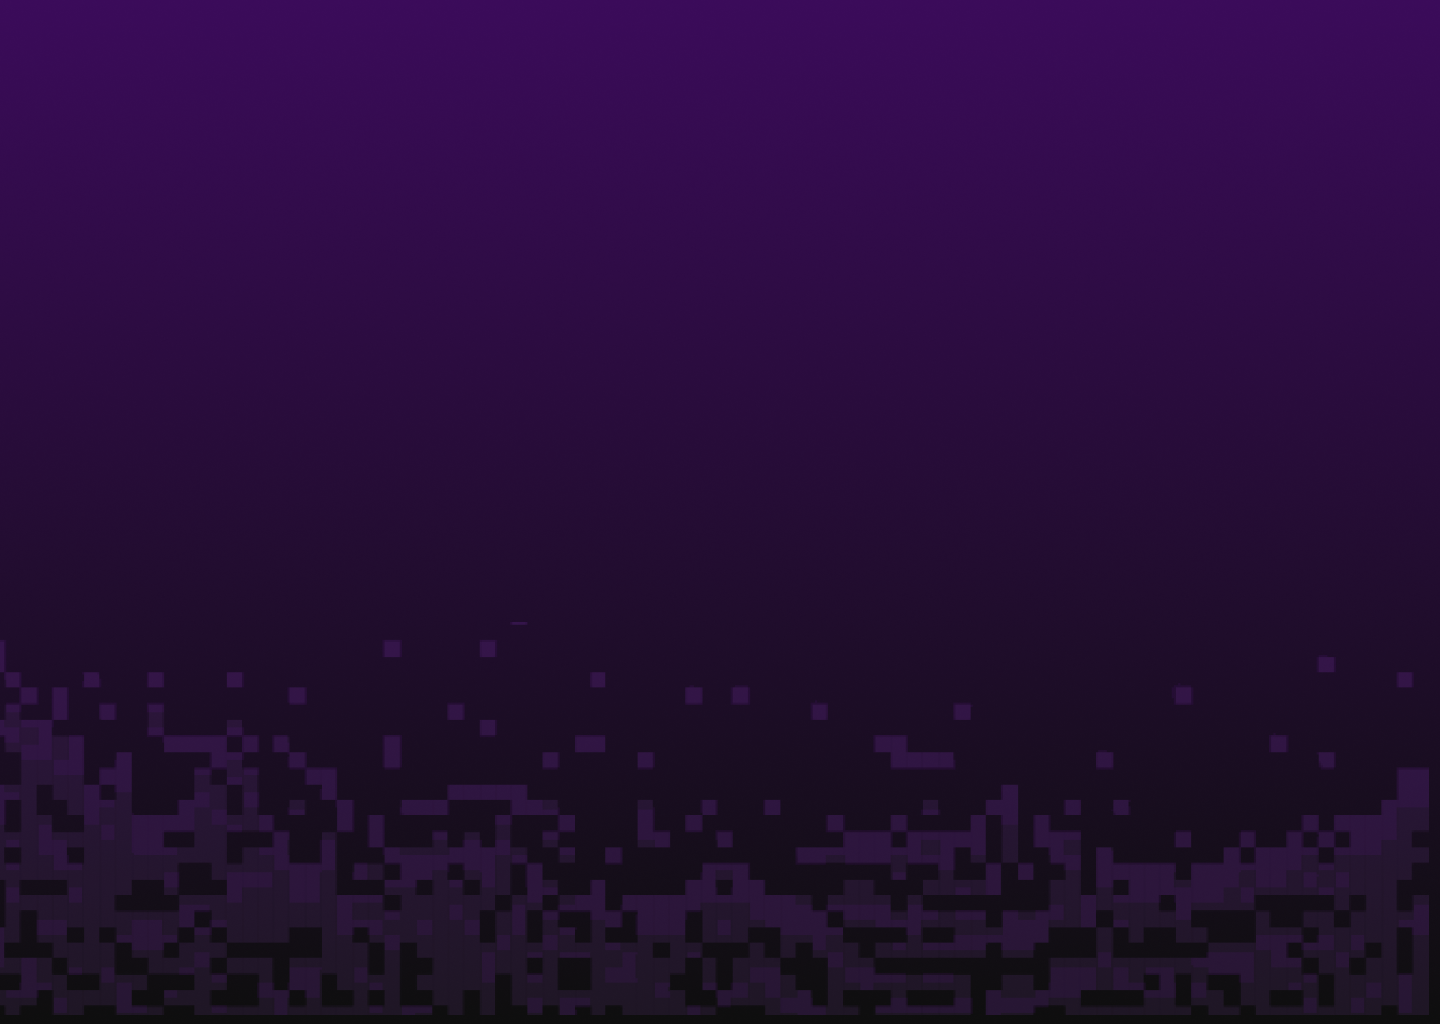
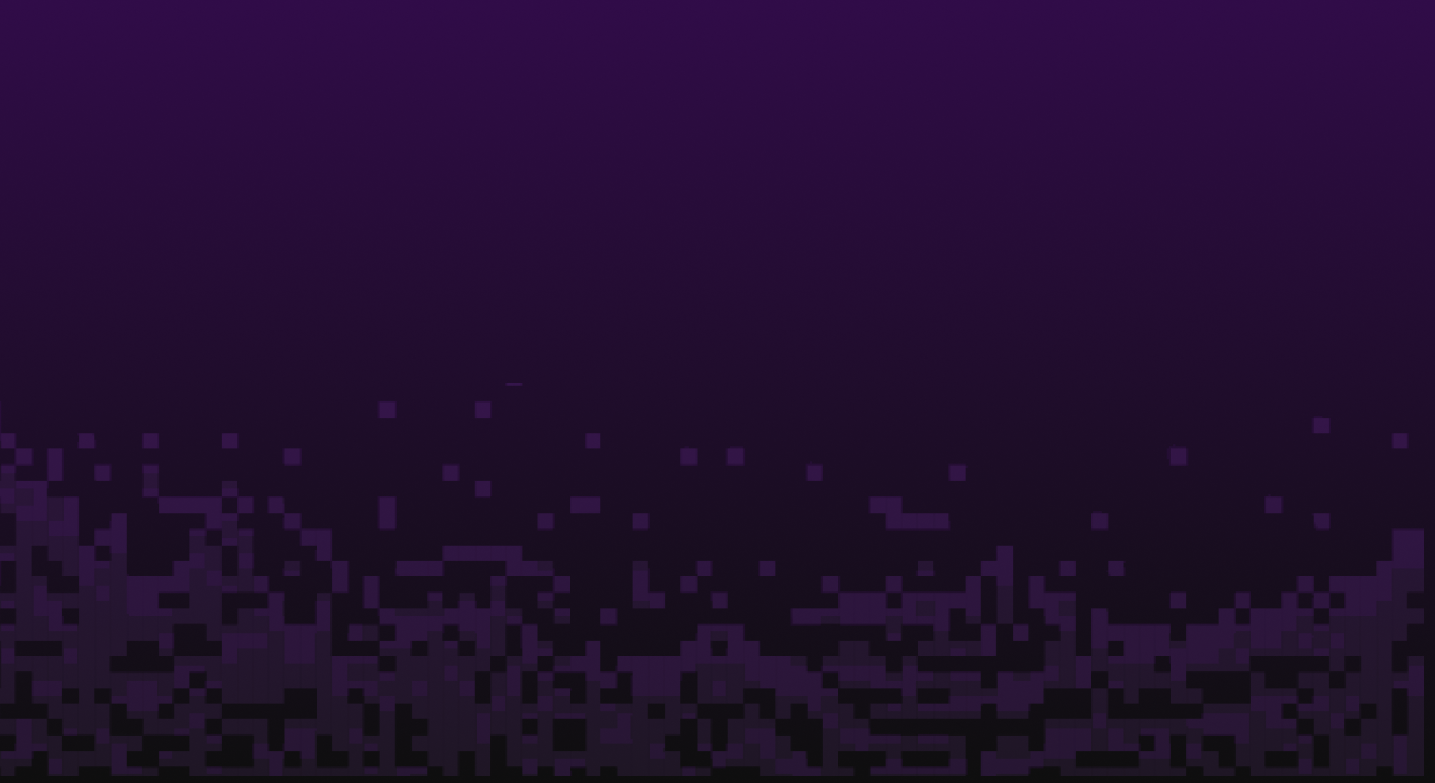
Area interesse finalizada. Criando tela home.

diff --git a/src/main/resources/templates/areainteresse.html b/src/main/resources/templates/areainteresse.html
@@ -1,0 +1,114 @@
+<!DOCTYPE html>
+<html>
+<head>
+	<meta charset="utf-8">
+	<meta name="description" content="">
+	<meta name="keywords" content="palavras,separadas,por,vírgulas">
+	<meta name="viewport" content="width=device-width,initial-scale=1.0,maximum-scale=1.0">
+	<title>AccentureTalentHub | Login</title>
+	<link rel="shortcut icon" href="../static/img/logo_accenture.png" type="image/x-icon">
+	<link rel="stylesheet" type="text/css" href="../static/css/areainteresse.css">
+    <link rel="stylesheet" type="text/css" href="../static/css/geralstyle.css">
+    <link rel="stylesheet" type="text/css" href="../static/css/indexstyle.css">
+    <script type="text/javascript" src="https://code.jquery.com/jquery-3.6.0.min.js"></script>
+</head>
+<body id="body_login">
+    <section id="box_center">
+
+        <div class="box_center_chamada_txt">
+
+            <div id="box_chamada">
+                <img id="foguete" src="../static/img/foguete.png">
+                <div id="chamada_txt">
+                    <div>
+                        <h3>SELECIONE SUAS</h3>
+                        <div id="faixa_chamada"></div>
+                    </div>
+                    
+                    <div>
+                        <h1>Tecnologias De Interesse</h1>
+                    </div>
+                </div>
+            </div>
+        </div>
+
+        <div id="box_tecnologias">
+            <div id="teste">
+                <ul>
+                    <li>JavaScript</li>
+                    <li>Data Science</li>
+                    <li>Java</li>
+                    <li>Docker</li>
+                    <li>HTML</li>
+                    <li>CSS</li>
+                    <li>Python</li>
+                </ul>
+    
+                <ul>
+                    <li>PHP</li>
+                    <li>Salesforce</li>
+                    <li>SAP ABAP</li>
+                    <li>TypeScript</li>
+                    <li>Cloud Computing</li>
+                    <li>Kubernetes</li>
+                </ul>
+    
+                <ul>
+                    <li>JavaScript</li>
+                    <li>Data Science</li>
+                    <li>Java</li>
+                    <li>Docker</li>
+                    <li>HTML</li>
+                    <li>CSS</li>
+                    <li>Python</li>
+                </ul>
+    
+                <ul>
+                    <li>PHP</li>
+                    <li>Salesforce</li>
+                    <li>SAP ABAP</li>
+                    <li>TypeScript</li>
+                    <li>Cloud Computing</li>
+                    <li>Kubernetes</li>
+                </ul>
+            </div>
+            
+
+            <div id="enviar_resposta">
+                <p>Enviar Resposta</p>
+                <img src="../static/img/seta_direita.png">
+            </div>
+        </div>
+        
+
+        <section id="box_name_plataform">
+            <div class="line"></div>
+            <p>AccentureTalentHub</p>
+            <div class="line"></div>
+        </section>
+
+        <footer id="footer_login">
+            <p>© 2023 AccentureTalentHub.Inc | Todos os direitos reservados </p>
+        </footer>
+    </section>
+	
+
+	
+
+	
+	<script>
+        $(document).ready(function(){
+            $("#box_center").fadeIn(2000);
+            $("#box_center").css("display", "flex");
+
+            $("#enviar_resposta").click(function() {
+                window.location.href = 'home.html';
+            })
+
+        });
+
+
+
+    </script>
+</body>
+</html>

diff --git a/src/main/resources/static/css/areainteresse.css b/src/main/resources/static/css/areainteresse.css
@@ -1,0 +1,72 @@
+@import url('https://fonts.googleapis.com/css2?family=Poppins:wght@300&display=swap');
+#box_chamada{
+    display: flex;
+    width: 100%;
+    position: relative;
+    left: -20px;
+    color: #fff;
+    align-items: center;
+}
+
+#foguete{
+    width: 150px;
+    height: 150px;
+}
+
+#chamada_txt div{
+    display: flex;
+    align-items: center;
+    justify-content: space-between;
+}
+
+#faixa_chamada{
+    width: 50%;
+    border-bottom: 5px dashed #6404A3;
+}
+
+#chamada_txt h3{
+    font-size: 25px;
+    font-family: 'Poppins', sans-serif;
+}
+
+#chamada_txt h1{
+    font-size: 35px;
+    font-family: 'Poppins', sans-serif;
+}
+
+#box_tecnologias{
+    width: 55%;
+    border: 3px solid #B05CEF;
+    border-radius: 10px;
+    margin: auto;
+    padding: 1%;
+    color: #fff;
+}
+
+#box_tecnologias ul{
+    display: flex;
+    justify-content: space-between;
+    text-align: center;
+}
+
+#box_tecnologias ul li{
+    list-style: none;
+    font-family: 'Poppins', sans-serif;
+    padding: 1.2%;
+    background-size: 100% 100%;
+    text-align: center;
+    background-image: url('../img/borda.png');
+    cursor: pointer;
+}
+
+#enviar_resposta{
+    display: flex;
+    width: 200px;
+    margin: 2% auto;
+    justify-content: space-around;
+    align-items: center;
+    cursor: pointer;
+    color: #5B2182;
+    border-radius: 8px;
+    background-color: #E1BBFD;
+}

diff --git a/src/main/resources/static/css/indexstyle.css b/src/main/resources/static/css/indexstyle.css
@@ -1,12 +1,3 @@
-#body_login{
-    /* background-image: linear-gradient(#3B0B5A, #000000); */
-    /* background-color: #200533; */
-    background-image: url('../img/fundo_down.png');
-    /* background-position: bottom; */
-    background-repeat: no-repeat;
-    background-size: 100% 100%;
-}
-
 #box_center{
     width: 95%;
     margin: auto;
@@ -86,7 +77,7 @@
     align-items: center;
     justify-content: space-around;
     width: 100%;
-    margin-top: 8%;
+    margin-top: 6%;
     color: #B05CEF;
 }
 
@@ -99,5 +90,6 @@
 #footer_login{
     color: #969696;
     text-align: center;
-    padding: 2% 0;
+    padding: 1% 0;
+    padding-top: 0;
 }

diff --git a/src/main/resources/static/css/primeiroacesso.css b/src/main/resources/static/css/primeiroacesso.css
@@ -1,3 +1,12 @@
+html, body{
+    width: 100%;
+    max-width: 1366px;
+    margin: 0 auto;
+    background-image: url('../img/fundo_rigth.png');
+    background-repeat: no-repeat;
+    background-size: 100%;
+}
+
 #box_center_primeiro_acesso p{
     color: #B05CEF;
     font-size: 20px;

diff --git a/src/main/resources/static/css/geralstyle.css b/src/main/resources/static/css/geralstyle.css
@@ -8,9 +8,11 @@
 
 html, body{
     width: 100%;
-    height: 100%;
     max-width: 1366px;
     margin: 0 auto;
+    background-image: url('../img/fundo_down.png');
+    background-repeat: no-repeat;
+    background-size: 100%;
 }
 
 /* css do menu lateral */

diff --git a/src/main/resources/templates/primeiroacesso.html b/src/main/resources/templates/primeiroacesso.html
@@ -12,7 +12,6 @@
     <script type="text/javascript" src="https://code.jquery.com/jquery-3.6.0.min.js"></script>
 </head>
 <body id="body_primeiro_acesso">
-    <br>
     <section id="box_center">
 
         <div id="box_center_primeiro_acesso">
